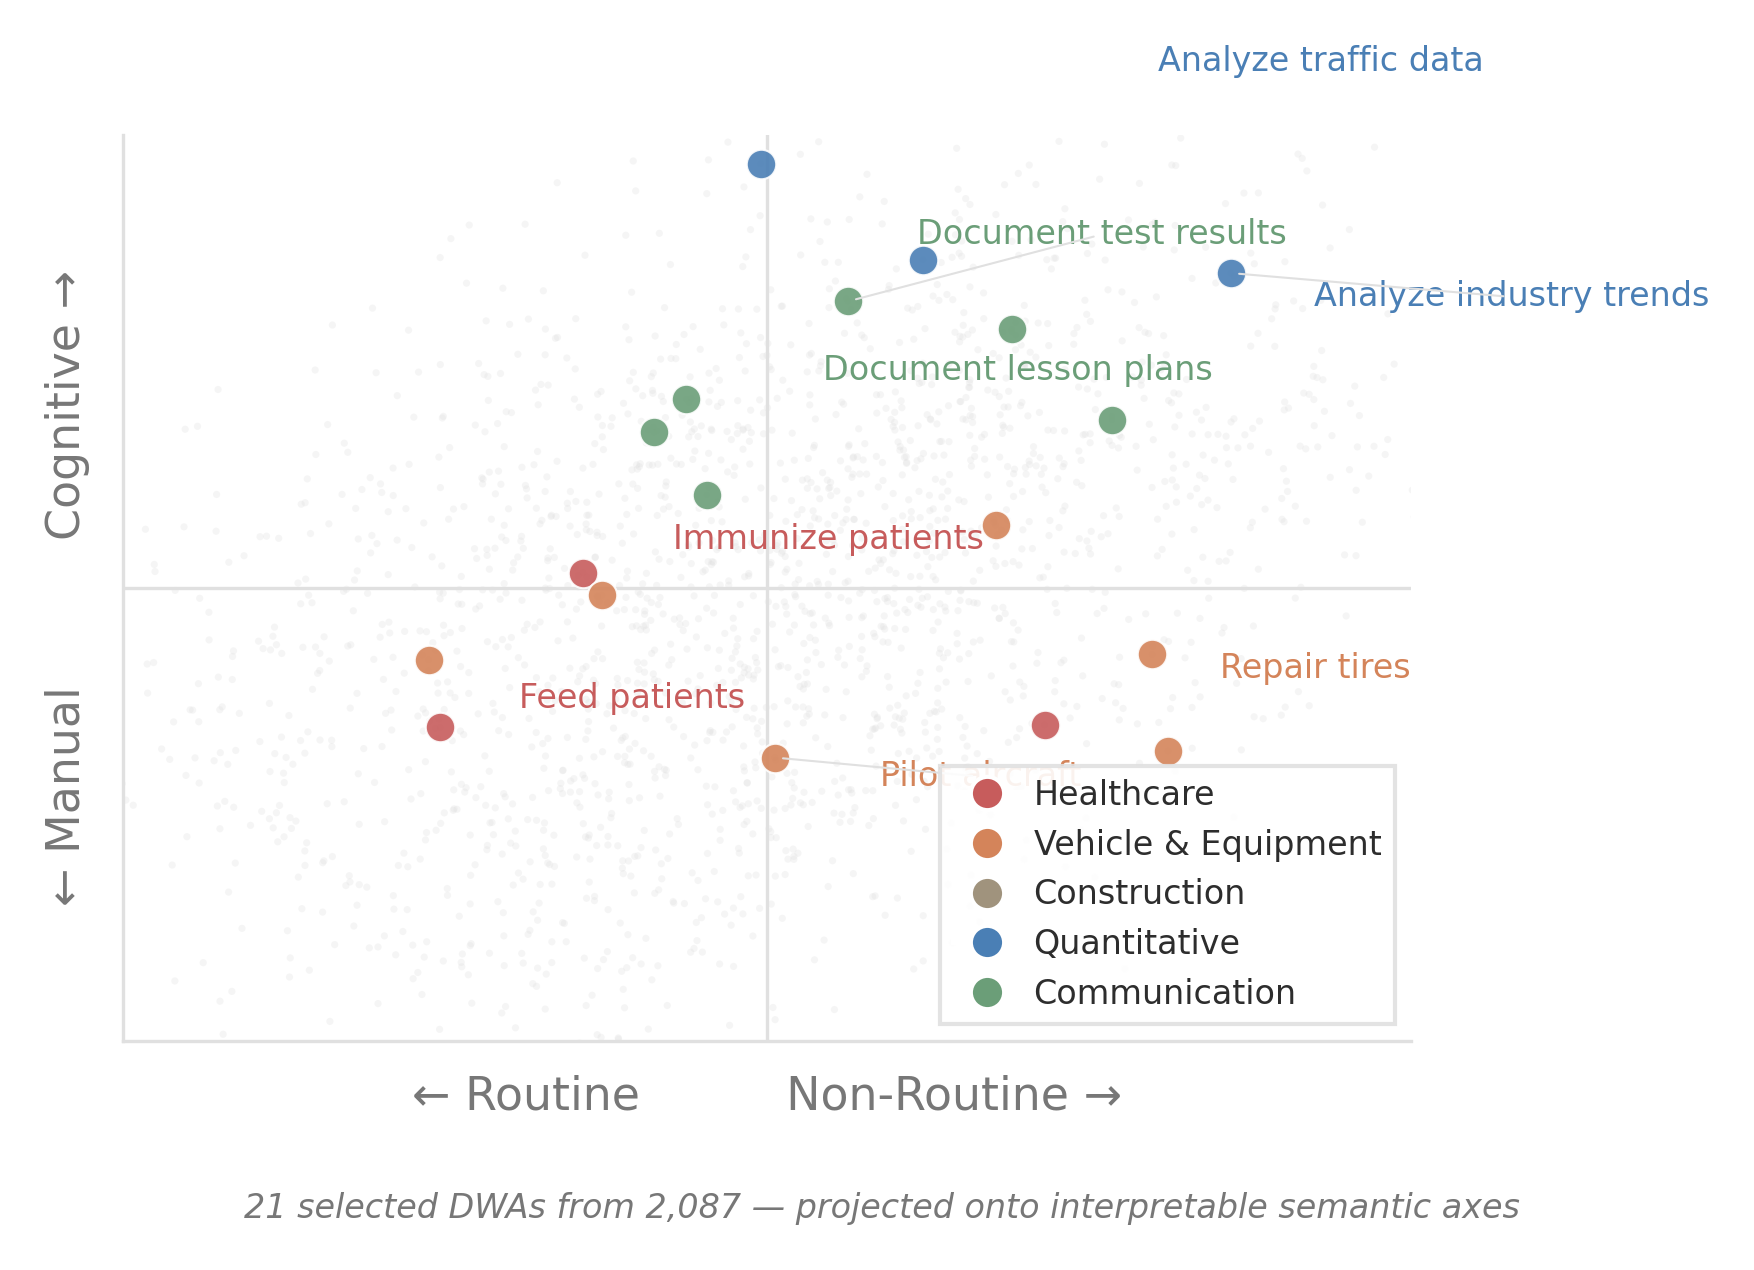
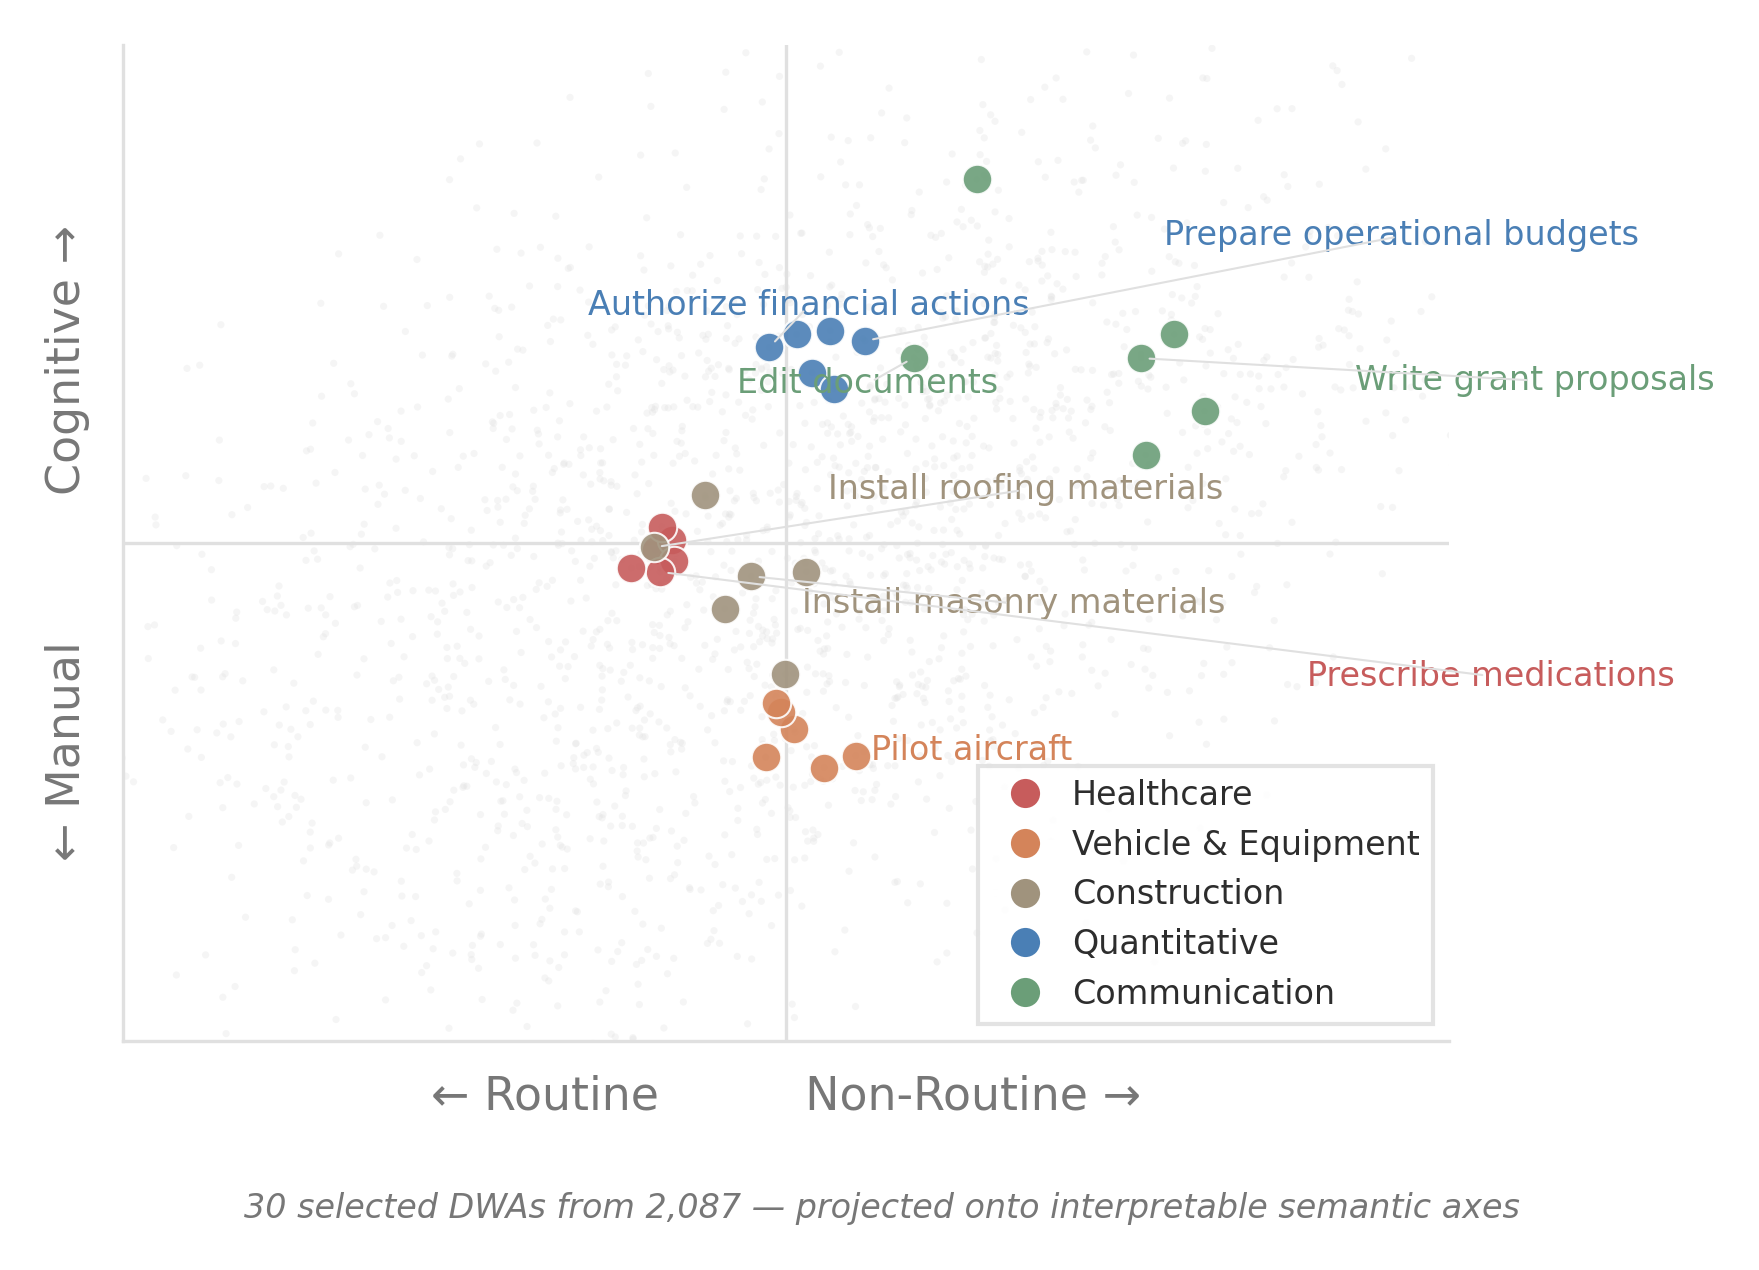
v0.7.10.9: Fig3 keyword-only clustering, restored background cloud
5 themes × 6 dots = 30 colored dots, 8 labels (no truncation).
All labels ≤27 chars. Construction restored via keyword matching.

diff --git a/figures/fig3_task_scatter.py b/figures/fig3_task_scatter.py
@@ -1,10 +1,10 @@
 """
-Figure 3 v7 — Task embeddings with Routine/Manual semantic axes
-Short-name-first selection: only DWAs with titles ≤ 20 chars are candidates.
-5 themes × 6 dots × 2 labels, adjustText, spatial separation between groups.
+Figure 3 v8 — Task embeddings with Routine/Manual semantic axes
+Keyword-only clustering: match DWA titles against theme patterns.
+5 themes × 6 dots × 2 labels, adjustText.
 Target: Slide 4 ("Tasks in Semantic Space")
 """
-import sys, os
+import sys, os, re
 sys.path.insert(0, os.path.join(os.path.dirname(__file__), '..'))
 
 import numpy as np
@@ -39,81 +39,50 @@ anchors = {
     'manual':      "manual physical hands-on bodily labor using tools and equipment",
 }
 
-# === Stage 1: Narrowed GWA-to-theme mapping ===
-GWA_TO_THEME = {
-    'Assisting and Caring for Others': 'Healthcare',
-    'Performing General Physical Activities': 'Construction',
-    'Repairing and Maintaining Mechanical Equipment': 'Vehicle & Equipment',
-    'Operating Vehicles, Mechanized Devices, or Equipment': 'Vehicle & Equipment',
-    'Analyzing Data or Information': 'Quantitative',
-    'Estimating the Quantifiable Characteristics of Products, Events, or Information': 'Quantitative',
-    'Communicating with People Outside the Organization': 'Communication',
-    'Documenting/Recording Information': 'Communication',
-}
-
-# === Stage 2: Keyword confirmation ===
-THEME_KEYWORDS = {
-    'Healthcare':          ['patient', 'medical', 'health', 'treat', 'diagnos', 'nurs',
-                            'therap', 'immuniz', 'prescri', 'symptom'],
+# === Theme definitions: keywords matched against DWA titles ===
+THEME_PATTERNS = {
+    'Healthcare':          ['patient', 'medical', 'health', 'nurs', 'treat', 'diagnos',
+                            'immuniz', 'prescri', 'symptom', 'therap'],
     'Vehicle & Equipment': ['vehicle', 'drive', 'truck', 'aircraft', 'pilot', 'forklift',
-                            'engine', 'mechanic', 'tire', 'cargo', 'equipment'],
-    'Construction':        ['construct', 'build', 'weld', 'masonry', 'concrete', 'plumb',
-                            'excavat', 'trench', 'scaffold', 'install', 'roofing', 'mortar',
-                            'lumber'],
-    'Quantitative':        ['financial', 'data', 'statistic', 'calculat', 'budget', 'quantit',
-                            'forecast', 'analyz', 'audit', 'account'],
-    'Communication':       ['document', 'write', 'edit', 'report', 'present', 'correspond',
-                            'publish', 'transcri', 'proofread'],
+                            'engine', 'tire', 'cargo', r'operat.*crane', 'tow '],
+    'Construction':        ['weld', 'masonry', 'concrete', 'plumb', 'mortar', 'excavat',
+                            'trench', 'scaffold', 'roofing', 'drywall', 'flooring', 'lumber'],
+    'Quantitative':        ['financial', 'statistic', 'budget', 'forecast', 'audit',
+                            'tax', 'accounting', 'actuari'],
+    'Communication':       ['edit document', 'edit written', r'write ', 'proofread',
+                            'transcri', 'publish', 'draft ', 'grant proposal'],
 }
 
-MAX_TITLE_LEN = 20
 
-
-def passes_keyword_filter(title, theme):
+def match_theme(title):
     title_lower = title.lower()
-    return any(kw in title_lower for kw in THEME_KEYWORDS[theme])
+    for theme, patterns in THEME_PATTERNS.items():
+        if any(re.search(p, title_lower) for p in patterns):
+            return theme
+    return None
 
 
 # === Load embeddings ===
 print("Loading DWA domain and embeddings...")
 domain = build_dwa_activity_domain()
-dwa_titles = get_dwa_titles()
+dwa_titles_dict = get_dwa_titles()
 dwa_ids = domain.activity_ids
-dwa_texts = [dwa_titles.get(aid, aid) for aid in dwa_ids]
+dwa_texts = [dwa_titles_dict.get(aid, aid) for aid in dwa_ids]
 titles_clean = [t.rstrip('.') for t in dwa_texts]
 embeddings = get_embeddings(dwa_texts, model="all-mpnet-base-v2")
 print(f"Loaded {len(dwa_ids)} DWAs, embeddings shape: {embeddings.shape}")
 
-# === Load GWA metadata ===
-dwa_meta = pd.read_excel('data/onet/db_30_0_excel/DWA Reference.xlsx')
-dwa_meta = dwa_meta[['DWA ID', 'Element Name']].drop_duplicates(subset='DWA ID').sort_values('DWA ID')
-dwa_id_to_gwa = dict(zip(dwa_meta['DWA ID'], dwa_meta['Element Name']))
-gwa_names = [dwa_id_to_gwa.get(aid, '') for aid in dwa_ids]
+# === Match themes ===
+themes = [match_theme(t) for t in dwa_texts]
 
-# === Build candidate pools: GWA + keyword + short title ===
-candidates_by_theme = {}
+print("\nTheme match counts:")
 for theme in CLUSTER_COLORS:
-    idxs = []
-    limit = MAX_TITLE_LEN
-    for i, gwa in enumerate(gwa_names):
-        candidate_theme = GWA_TO_THEME.get(gwa, None)
-        if (candidate_theme == theme
-                and passes_keyword_filter(dwa_texts[i], theme)
-                and len(titles_clean[i]) <= limit):
-            idxs.append(i)
-    # Relax to 25 if fewer than 6
+    idxs = [i for i, t in enumerate(themes) if t == theme]
+    print(f"  {theme:<22s}  {len(idxs)}")
     if len(idxs) < 6:
-        print(f"NOTE: {theme} has only {len(idxs)} candidates at ≤{MAX_TITLE_LEN} chars, relaxing to 25")
-        limit = 25
-        idxs = []
-        for i, gwa in enumerate(gwa_names):
-            candidate_theme = GWA_TO_THEME.get(gwa, None)
-            if (candidate_theme == theme
-                    and passes_keyword_filter(dwa_texts[i], theme)
-                    and len(titles_clean[i]) <= limit):
-                idxs.append(i)
-    candidates_by_theme[theme] = idxs
-    print(f"{theme}: {len(idxs)} short-titled candidates (≤{limit} chars)")
+        print(f"    WARNING: < 6 matches. Titles:")
+        for i in idxs:
+            print(f"      {titles_clean[i]}")
 
 # === Embed anchors ===
 anchor_texts = list(anchors.values())
@@ -141,72 +110,46 @@ all_x = (raw_x - raw_x.mean()) / raw_x.std() * 2.5
 all_y = (raw_y - raw_y.mean()) / raw_y.std() * 2.5
 
 
-# === Density-based selection with spatial separation ===
-def find_densest_group_separated(idxs, all_x, all_y, prior_centroids,
-                                 n=6, min_sep=1.0):
-    """Find n densest points whose centroid is separated from prior groups."""
-    xs = np.array([all_x[i] for i in idxs])
-    ys = np.array([all_y[i] for i in idxs])
-
+# === Density-based selection ===
+def find_densest_group(idxs, all_x, all_y, n=6):
+    """Find n points in the densest region using k-NN seed."""
     if len(idxs) <= n:
         return list(idxs)
+
+    xs = np.array([all_x[i] for i in idxs])
+    ys = np.array([all_y[i] for i in idxs])
 
     tree = cKDTree(np.column_stack([xs, ys]))
     k = min(n - 1, len(idxs) - 1)
     dists, _ = tree.query(np.column_stack([xs, ys]), k=k + 1)
     density = dists[:, 1:].mean(axis=1)
 
-    # Try seeds from densest to least dense
-    for seed_rank in np.argsort(density):
-        _, nn = tree.query(np.column_stack([xs, ys])[seed_rank:seed_rank + 1], k=n)
-        group = [idxs[i] for i in nn[0]]
-
-        cx = np.mean([all_x[i] for i in group])
-        cy = np.mean([all_y[i] for i in group])
-
-        too_close = False
-        for px, py in prior_centroids:
-            if np.hypot(cx - px, cy - py) < min_sep:
-                too_close = True
-                break
-
-        if not too_close:
-            return group
-
-    # Fallback: reduce min_sep and retry
-    if min_sep > 0.5:
-        print(f"  WARNING: reducing min_sep from {min_sep} to 0.5")
-        return find_densest_group_separated(idxs, all_x, all_y, prior_centroids,
-                                            n=n, min_sep=0.5)
-
-    # Final fallback: just use densest
     seed = np.argmin(density)
-    _, nn = tree.query(np.column_stack([xs, ys])[seed:seed + 1], k=n)
-    return [idxs[i] for i in nn[0]]
+    _, nn_idxs = tree.query(np.column_stack([xs, ys])[seed:seed + 1], k=n)
+    return [idxs[i] for i in nn_idxs[0]]
 
 
-def pick_labels(group, n=2):
-    """Pick the n shortest-titled DWAs for labeling."""
-    by_len = sorted(group, key=lambda i: len(titles_clean[i]))
-    return set(by_len[:n])
+def pick_labels(group, n=2, max_len=28):
+    """Pick the n shortest-titled DWAs that fit within max_len."""
+    candidates = [(i, len(titles_clean[i])) for i in group if len(titles_clean[i]) <= max_len]
+    candidates.sort(key=lambda x: x[1])
+    return set(c[0] for c in candidates[:n])
 
 
 selected = []
-prior_centroids = []
 print("\n=== Selected groups ===")
 for theme in CLUSTER_COLORS:
-    idxs = candidates_by_theme[theme]
+    idxs = [i for i, t in enumerate(themes) if t == theme]
     if len(idxs) < 3:
-        print(f"WARNING: {theme} has only {len(idxs)} candidates — skipping")
+        print(f"WARNING: {theme} has only {len(idxs)} matches — skipping")
         continue
 
     n_group = min(6, len(idxs))
-    group = find_densest_group_separated(idxs, all_x, all_y, prior_centroids, n=n_group)
+    group = find_densest_group(idxs, all_x, all_y, n=n_group)
     labeled_set = pick_labels(group, n=2)
 
     cx = np.mean([all_x[i] for i in group])
     cy = np.mean([all_y[i] for i in group])
-    prior_centroids.append((cx, cy))
 
     print(f"\n{theme} ({len(group)} dots, centroid=({cx:+.2f}, {cy:+.2f})):")
     for idx in group:
@@ -226,15 +169,6 @@ sel_df = pd.DataFrame(selected)
 n_labeled = sel_df['labeled'].sum()
 print(f"\nSelected {len(sel_df)} DWAs total, {n_labeled} labeled")
 
-# Print centroid separations
-print("\nCentroid separations:")
-for i in range(len(prior_centroids)):
-    for j in range(i + 1, len(prior_centroids)):
-        d = np.hypot(prior_centroids[i][0] - prior_centroids[j][0],
-                     prior_centroids[i][1] - prior_centroids[j][1])
-        themes_list = list(CLUSTER_COLORS.keys())
-        print(f"  {themes_list[i]:<22s} ↔ {themes_list[j]:<22s}  {d:.2f}")
-
 # Print final label strings
 print("\nFinal labels:")
 for _, row in sel_df[sel_df['labeled']].iterrows():
@@ -244,7 +178,7 @@ for _, row in sel_df[sel_df['labeled']].iterrows():
 # === Build figure ===
 fig, ax = plt.subplots(figsize=(6.0, 4.0))
 
-# Background cloud
+# Background cloud — ALL 2,087 DWAs
 ax.scatter(all_x, all_y, s=3, c='#E0E0E0', alpha=0.3,
            edgecolors='none', zorder=0, rasterized=True)
 
@@ -276,6 +210,20 @@ adjust_text(texts, ax=ax,
             force_points=(0.5, 0.5),
             expand_text=(1.1, 1.2),
             lim=1000)
+
+# Post-adjustText: flip any label that lands in legend region (lower-right)
+fig.canvas.draw()
+renderer = fig.canvas.get_renderer()
+for t in texts:
+    bbox = t.get_window_extent(renderer)
+    data_bbox = ax.transData.inverted().transform(bbox)
+    # If label center is in lower-right quadrant (legend area)
+    cx_label = (data_bbox[0, 0] + data_bbox[1, 0]) / 2
+    cy_label = (data_bbox[0, 1] + data_bbox[1, 1]) / 2
+    if cx_label > 2.0 and cy_label < -2.0:
+        # Move label to opposite side of its dot
+        pos = t.get_position()
+        t.set_position((pos[0] - 2.0, pos[1] + 1.0))
 
 # Legend — lower right
 handles = [Line2D([0], [0], marker='o', color='w',

diff --git a/LEDGER.md b/LEDGER.md
@@ -1,6 +1,6 @@
 # LEDGER.md — Task-Space Oracle Research State
 
-**Current Version:** 0.7.10.8
+**Current Version:** 0.7.10.9
 **Last Updated:** 2026-03-10
 **Paper Draft:** `paper/main.tex`
 
@@ -764,6 +764,7 @@ Deprecated approaches. Do not retry.
 | Version | Date | Changes |
 |---------|------|---------|
 | 0.7.9.3 | 2026-03-09 | Captions for fig3/fig4, swap fig5/fig6 to Budget vs Credit Analysts. |
+| 0.7.10.9 | 2026-03-10 | Fig3 keyword-only clustering, restored background cloud. 5 themes × 6 dots = 30, 8 labels. |
 | 0.7.10.8 | 2026-03-10 | Fig3 short-name-first selection with spatial separation. Construction dropped (2 candidates). Healthcare reduced to 3. |
 | 0.7.10.7 | 2026-03-10 | Fig3 — 5 themes × 6 dots × 2 labels, adjustText, legend lower-right. Technology dropped. |
 | 0.7.10.6 | 2026-03-10 | Fig3 keyword-filtered theme assignment + diversity filter. Technology theme empty (0 DWAs pass filter). |
